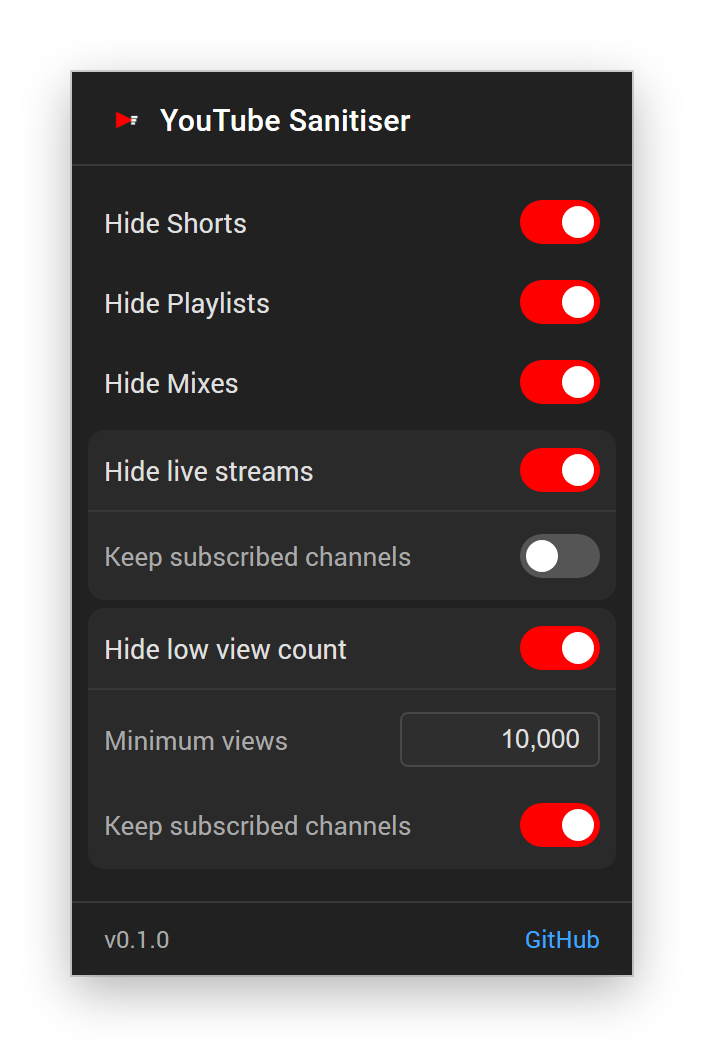
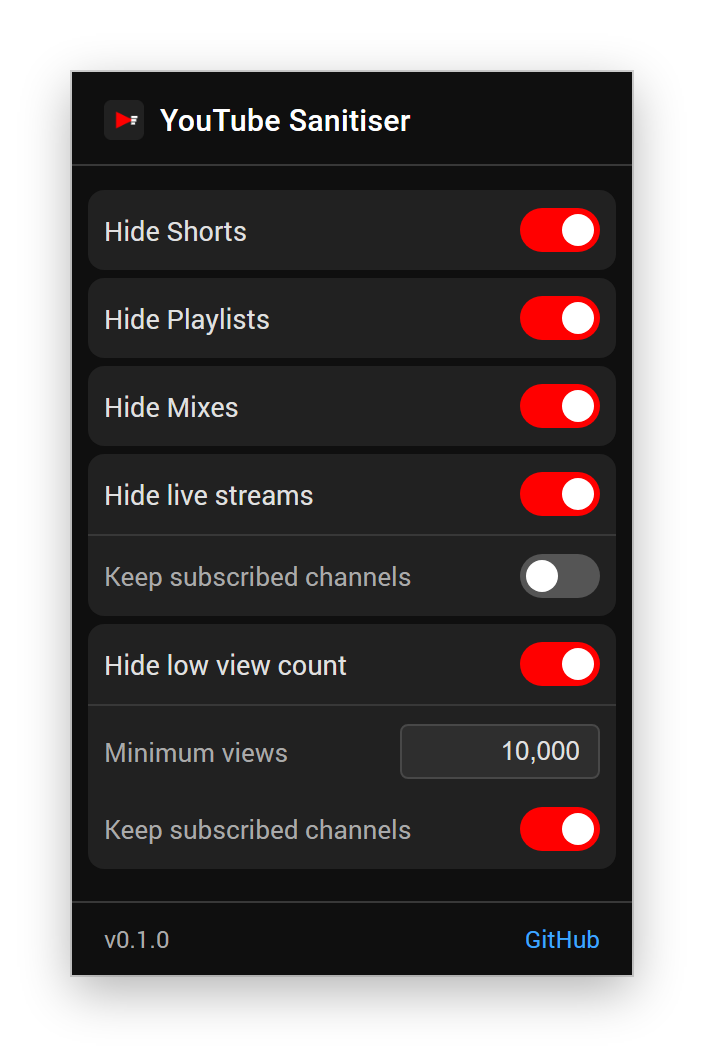
style(popup): put each setting on a card over YouTube's background
The popup's background is now #0f0f0f, YouTube's dark mode
background, and each setting sits on its own #212121 card, YouTube's
raised background. A filter with options is one card holding it and
its options, which show while the filter is on, so the panels that
used to appear only then are now always there. The README screenshot
shows the new look.

diff --git a/popup.css b/popup.css
@@ -10,7 +10,7 @@ body {
   width: 280px;
   font-family: 'Roboto', Arial, sans-serif;
   font-size: 14px;
-  background: #212121;
+  background: #0f0f0f; /* YouTube's dark mode background */
   color: #e0e0e0;
   user-select: none;
 }
@@ -62,26 +62,24 @@ main {
   cursor: pointer;
 }
 
-/* ── Options ──────────────────────────────────────────────────────────────── */
+/* ── Cards ────────────────────────────────────────────────────────────────── */
 
-/* While a filter is on, it becomes a panel holding it and its options, inset
-   so its labels and toggles line up with the other filters'. Off, it's a
-   plain row like the rest. The panel follows its options showing, which
-   popup.js sets, so the two never disagree. */
-.group:has(.sub-row:not(.hidden)) {
+/* Each setting is a card. A filter with options is one card holding it and
+   its options, which show while the filter is on. */
+main > .filter-row,
+.group {
   margin: 4px 8px;
-  background: #2a2a2a;
+  background: #212121;
   border-radius: 8px;
   overflow: hidden;
 }
 
-.group:has(.sub-row:not(.hidden)) .filter-row {
+main > .filter-row,
+.group .filter-row {
   padding: 9px 8px;
 }
 
-.group:has(.sub-row:not(.hidden)) .filter-row:hover {
-  background: #333333;
-}
+/* ── Options ──────────────────────────────────────────────────────────────── */
 
 /* The options hide once none of their rows show, so popup.js only has to
    hide the rows */
